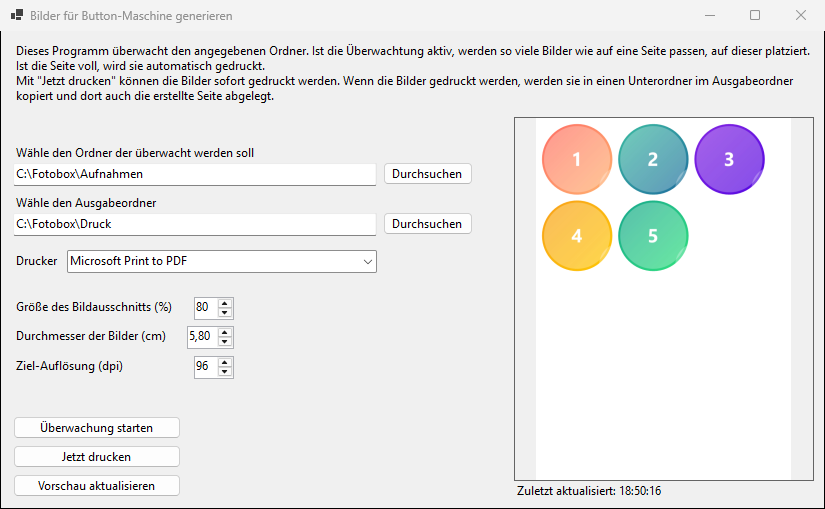
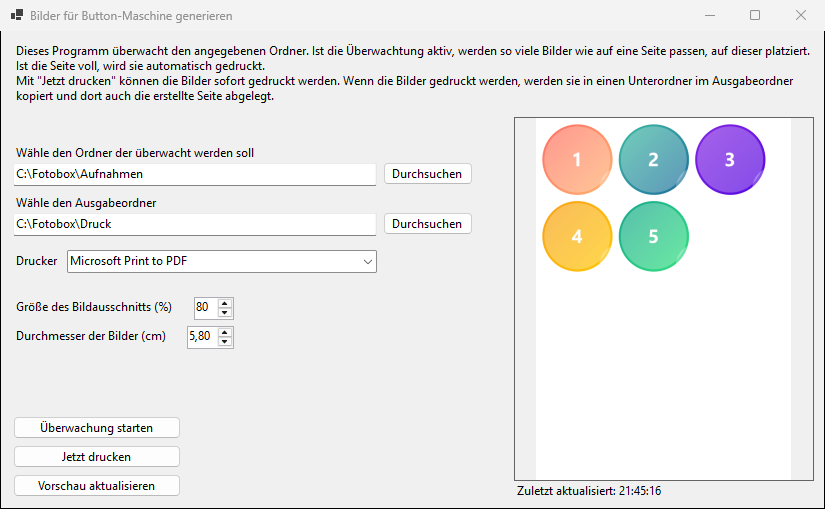
Druck mit festen 300 dpi und korrekter Größe
- Druckseite wird mit 300 dpi erzeugt (vorher 96 dpi), die Vorschau
  bleibt aus Geschwindigkeitsgründen bei 96 dpi
- Layout wird in cm berechnet und erst dann in Pixel umgerechnet
- Druck platziert das Bild in seiner physischen Größe; vorher wurden
  96-dpi-Pixel als 1/100 Zoll gedruckt, wodurch die Kreise etwa 4 %
  zu klein waren (5,56 statt 5,8 cm)
- Für den Druck hochwertige Skalierung (HighQualityBicubic)
- Wirkungsloses Eingabefeld „Ziel-Auflösung (dpi)“ entfernt

Claude-Session: https://claude.ai/code/session_01WXyDXVvNh6Jt7r7JhcrZzB

diff --git a/PrintImageForButtonMachine/ImageProcessor.cs b/PrintImageForButtonMachine/ImageProcessor.cs
@@ -13,12 +13,16 @@ namespace PrintImageForButtonMachine
     internal class ImageProcessor
     {
         private const double cmProInch = 2.54;
+        private const double SeitenBreiteCm = 21; // A4
+        private const double SeitenHoeheCm = 29.7;
+        private const double AbstandCm = 0.5;
+        private const int VorschauDpi = 96; // genügt für die Bildschirmvorschau
+        private const int DruckDpi = 300; // mehr bringt auch bei 600-dpi-Laserdruckern keinen sichtbaren Gewinn
         private TextBox _ueberwachungPfad;
         private TextBox _ausgabePfad;
         private double _faktor; // [0,1]
         private double _groesse; // cm
         private PictureBox _pictureBox;
-        private int _druckerAuflösung = 96; // dpi
         private Label _labelAktualisiert;
         private readonly ComboBox _comboBox;
         private string? _vorschauSignatur; // Stand der zuletzt erzeugten Vorschau
@@ -28,12 +32,6 @@ namespace PrintImageForButtonMachine
         public string AusgabePfad { get => _ausgabePfad.Text; set => _ausgabePfad.Text = value; }
         public double Faktor { get => _faktor * 100; set => _faktor = value / 100; }
         public double Groesse { get => _groesse; set => _groesse = value; }
-
-        public int DruckerAuflösung { get => _druckerAuflösung; set => _druckerAuflösung = value; }
-        public int BreiteInPixel { get => (int)(21 / cmProInch * _druckerAuflösung); }
-        public int HöheInPixel { get => (int)(29.7 / cmProInch * _druckerAuflösung); }
-        public int GroesseInPixel { get => (int)(_groesse / cmProInch * _druckerAuflösung); }
-        public int AbstandInPixel { get => (int)(0.5 / cmProInch * _druckerAuflösung); }
 
         public ImageProcessor(TextBox p_UeberwachungPfad, TextBox p_ausgabePfad, double p_Faktor, double p_Groesse, PictureBox p_PictureBox, Label labelAktualisiert, ComboBox comboBox)
         {
@@ -104,7 +102,7 @@ namespace PrintImageForButtonMachine
                 // Bild im Hintergrund erzeugen und speichern, damit die Oberfläche nicht blockiert
                 using Bitmap neuesBild = await Task.Run(() =>
                 {
-                    Bitmap bild = GeneriereBild(LeseBilder(ordnerPfad), out _);
+                    Bitmap bild = GeneriereBild(LeseBilder(ordnerPfad), DruckDpi, out _);
                     string printPath = Path.Combine(ordnerPfad, "print.jpg");
                     if (File.Exists(printPath))
                     {
@@ -134,7 +132,7 @@ namespace PrintImageForButtonMachine
                 if (erzwingen || signatur != _vorschauSignatur)
                 {
                     bool vollstaendig = false;
-                    Bitmap vorschaubild = await Task.Run(() => GeneriereBild(dateien, out vollstaendig));
+                    Bitmap vorschaubild = await Task.Run(() => GeneriereBild(dateien, VorschauDpi, out vollstaendig));
                     Image? altesBild = _pictureBox.Image;
                     _pictureBox.Image = vorschaubild;
                     altesBild?.Dispose();
@@ -151,8 +149,8 @@ namespace PrintImageForButtonMachine
 
         public int ErmittleAnzahlBilderProSeite()
         {
-            int anzahlSpalten = ErmittleAnzahlBilder(BreiteInPixel, GroesseInPixel);
-            int anzahlZeilen = ErmittleAnzahlBilder(HöheInPixel, GroesseInPixel);
+            int anzahlSpalten = ErmittleAnzahlBilder(SeitenBreiteCm);
+            int anzahlZeilen = ErmittleAnzahlBilder(SeitenHoeheCm);
             return anzahlSpalten * anzahlZeilen;
         }
 
@@ -164,7 +162,7 @@ namespace PrintImageForButtonMachine
         private string ErzeugeSignatur(FileInfo[] dateien)
         {
             var signatur = new StringBuilder();
-            signatur.Append(_faktor).Append('|').Append(_groesse).Append('|').Append(_druckerAuflösung);
+            signatur.Append(_faktor).Append('|').Append(_groesse);
             foreach (FileInfo datei in dateien)
             {
                 signatur.Append('|').Append(datei.Name).Append(':').Append(datei.Length).Append(':').Append(datei.LastWriteTimeUtc.Ticks);
@@ -173,17 +171,24 @@ namespace PrintImageForButtonMachine
         }
 
         /// <param name="vollstaendig">false, wenn mindestens ein Bild nicht geladen werden konnte.</param>
-        private Bitmap GeneriereBild(FileInfo[] dateien, out bool vollstaendig)
+        private Bitmap GeneriereBild(FileInfo[] dateien, int dpi, out bool vollstaendig)
         {
             vollstaendig = true;
-            int groesseInPixel = GroesseInPixel;
-            int abstandInPixel = AbstandInPixel;
-            Bitmap neuesBild = new Bitmap(BreiteInPixel, HöheInPixel);
-            int anzahlBilderProZeile = ErmittleAnzahlBilder(BreiteInPixel, groesseInPixel);
+            double groesseCm = _groesse;
+            int groesseInPixel = InPixel(groesseCm, dpi);
+            Bitmap neuesBild = new Bitmap(InPixel(SeitenBreiteCm, dpi), InPixel(SeitenHoeheCm, dpi));
+            neuesBild.SetResolution(dpi, dpi);
+            int anzahlBilderProZeile = ErmittleAnzahlBilder(SeitenBreiteCm);
             using (Graphics g = Graphics.FromImage(neuesBild)) {
                 // Weißer Hintergrund, da JPEG keine Transparenz kennt
                 g.Clear(Color.White);
                 g.SmoothingMode = SmoothingMode.AntiAlias;
+                // Für den Druck hochwertig skalieren, für die Vorschau genügt die schnellere Variante
+                if (dpi >= DruckDpi)
+                {
+                    g.InterpolationMode = InterpolationMode.HighQualityBicubic;
+                    g.PixelOffsetMode = PixelOffsetMode.HighQuality;
+                }
                 for (int i = 0; i < dateien.Length; i++)
                 {
                     using Image? image = LadeBild(dateien[i].FullName);
@@ -192,8 +197,9 @@ namespace PrintImageForButtonMachine
                         vollstaendig = false;
                         continue;
                     }
-                    int x = abstandInPixel + (i % anzahlBilderProZeile) * (groesseInPixel + abstandInPixel);
-                    int y = abstandInPixel + (i / anzahlBilderProZeile) * (groesseInPixel + abstandInPixel);
+                    // Position in cm berechnen und erst dann umrechnen, damit sich Rundungsfehler nicht aufsummieren
+                    int x = InPixel(AbstandCm + (i % anzahlBilderProZeile) * (groesseCm + AbstandCm), dpi);
+                    int y = InPixel(AbstandCm + (i / anzahlBilderProZeile) * (groesseCm + AbstandCm), dpi);
                     ZeichneKreisausschnitt(g, image, new Rectangle(x, y, groesseInPixel, groesseInPixel));
                 }
             };
@@ -229,8 +235,13 @@ namespace PrintImageForButtonMachine
                 printDocument.PrintPage += (sender, args) =>
                 {
                     if (args.Graphics == null) return;
+                    // Beim Drucker entspricht GraphicsUnit.Display 1/100 Zoll; das Bild wird in seiner physischen Größe platziert
+                    args.Graphics.PageUnit = GraphicsUnit.Display;
                     args.Graphics.PageScale = 1;
-                    args.Graphics.DrawImage(bild, -args.PageSettings.HardMarginX, -args.PageSettings.HardMarginY, bild.Width, bild.Height);
+                    args.Graphics.InterpolationMode = InterpolationMode.HighQualityBicubic;
+                    float breite = bild.Width / bild.HorizontalResolution * 100f;
+                    float hoehe = bild.Height / bild.VerticalResolution * 100f;
+                    args.Graphics.DrawImage(bild, -args.PageSettings.HardMarginX, -args.PageSettings.HardMarginY, breite, hoehe);
                 };
                 printDocument.Print();
             }
@@ -257,8 +268,11 @@ namespace PrintImageForButtonMachine
 
             Rectangle bildausschnitt = new Rectangle((p_Bild.Width - kantenlaenge) / 2, (p_Bild.Height - kantenlaenge) / 2, kantenlaenge, kantenlaenge);
             using Bitmap skaliert = new Bitmap(zielRechteck.Width, zielRechteck.Height);
+            skaliert.SetResolution(ziel.DpiX, ziel.DpiY);
             using (Graphics g = Graphics.FromImage(skaliert))
             {
+                g.InterpolationMode = ziel.InterpolationMode;
+                g.PixelOffsetMode = ziel.PixelOffsetMode;
                 g.DrawImage(p_Bild, new Rectangle(0, 0, zielRechteck.Width, zielRechteck.Height), bildausschnitt, GraphicsUnit.Pixel);
             }
 
@@ -267,10 +281,14 @@ namespace PrintImageForButtonMachine
             ziel.FillEllipse(brush, zielRechteck);
         }
 
-        private int ErmittleAnzahlBilder(int p_verfügbareLänge, int p_LängeProBild)
+        private int ErmittleAnzahlBilder(double p_verfügbareLängeCm)
         {
+            return (int)((p_verfügbareLängeCm - AbstandCm) / (AbstandCm + _groesse));
+        }
 
-            return (p_verfügbareLänge - AbstandInPixel) / (AbstandInPixel + p_LängeProBild);
+        private static int InPixel(double cm, int dpi)
+        {
+            return (int)Math.Round(cm / cmProInch * dpi);
         }
     }
 }

diff --git a/PrintImageForButtonMachine/Form1.Designer.cs b/PrintImageForButtonMachine/Form1.Designer.cs
@@ -45,8 +45,6 @@
             label4 = new Label();
             label_aktivIcon = new Label();
             label_aktivText = new Label();
-            num_Auflösung = new NumericUpDown();
-            label5 = new Label();
             pictureBox1 = new PictureBox();
             button1 = new Button();
             label_Uhrzeit = new Label();
@@ -54,7 +52,6 @@
             label6 = new Label();
             ((System.ComponentModel.ISupportInitialize)num_faktor).BeginInit();
             ((System.ComponentModel.ISupportInitialize)num_groesse).BeginInit();
-            ((System.ComponentModel.ISupportInitialize)num_Auflösung).BeginInit();
             ((System.ComponentModel.ISupportInitialize)pictureBox1).BeginInit();
             SuspendLayout();
             // 
@@ -219,26 +216,6 @@
             label_aktivText.Visible = false;
             label_aktivText.Click += label7_Click;
             // 
-            // num_Auflösung
-            // 
-            num_Auflösung.Location = new Point(221, 433);
-            num_Auflösung.Margin = new Padding(3, 4, 3, 4);
-            num_Auflösung.Maximum = new decimal(new int[] { 300, 0, 0, 0 });
-            num_Auflösung.Name = "num_Auflösung";
-            num_Auflösung.Size = new Size(46, 27);
-            num_Auflösung.TabIndex = 19;
-            num_Auflösung.Value = new decimal(new int[] { 96, 0, 0, 0 });
-            // 
-            // label5
-            // 
-            label5.AutoSize = true;
-            label5.Location = new Point(14, 436);
-            label5.Name = "label5";
-            label5.Size = new Size(143, 20);
-            label5.TabIndex = 18;
-            label5.Text = "Ziel-Auflösung (dpi)";
-            label5.Click += label5_Click_1;
-            // 
             // pictureBox1
             // 
             pictureBox1.BorderStyle = BorderStyle.FixedSingle;
@@ -300,8 +277,6 @@
             Controls.Add(label_Uhrzeit);
             Controls.Add(button1);
             Controls.Add(pictureBox1);
-            Controls.Add(num_Auflösung);
-            Controls.Add(label5);
             Controls.Add(label_aktivText);
             Controls.Add(label_aktivIcon);
             Controls.Add(num_groesse);
@@ -325,7 +300,6 @@
             Load += Form1_Load;
             ((System.ComponentModel.ISupportInitialize)num_faktor).EndInit();
             ((System.ComponentModel.ISupportInitialize)num_groesse).EndInit();
-            ((System.ComponentModel.ISupportInitialize)num_Auflösung).EndInit();
             ((System.ComponentModel.ISupportInitialize)pictureBox1).EndInit();
             ResumeLayout(false);
             PerformLayout();
@@ -349,8 +323,6 @@
         private Label label4;
         private Label label_aktivIcon;
         private Label label_aktivText;
-        private NumericUpDown num_Auflösung;
-        private Label label5;
         private PictureBox pictureBox1;
         private Button button1;
         private Label label_Uhrzeit;

diff --git a/PrintImageForButtonMachine/Form1.cs b/PrintImageForButtonMachine/Form1.cs
@@ -65,7 +65,6 @@ namespace WinFormsApp1
             btn_ausgabe.Enabled = wert;
             num_faktor.Enabled = wert;
             num_groesse.Enabled = wert;
-            num_Auflösung.Enabled = wert;
             label_aktivIcon.Visible = !wert;
             label_aktivText.Visible = !wert;
             btn_startStop.Text = wert ? "Überwachung starten" : "Überwachung stoppen";
@@ -186,11 +185,6 @@ namespace WinFormsApp1
         }
 
         private void label6_Click_1(object sender, EventArgs e)
-        {
-
-        }
-
-        private void label5_Click_1(object sender, EventArgs e)
         {
 
         }

diff --git a/README.md b/README.md
@@ -10,6 +10,7 @@ Windows-Programm, das Fotos für eine Buttonmaschine druckfertig aufbereitet. Es
 - **Live-Vorschau** der aktuellen Seite, wird nur bei Änderungen neu berechnet
 - **Automatischer Druck**, sobald so viele Bilder vorhanden sind, wie auf eine Seite passen
 - **Manueller Druck** über „Jetzt drucken“, auch wenn die Seite noch nicht voll ist
+- **Druck in Originalgröße mit 300 dpi**: Die Kreise haben auf dem Papier exakt den eingestellten Durchmesser
 - **Archivierung:** Vor dem Druck werden die Fotos in einen Unterordner mit Zeitstempel im Ausgabeordner verschoben; die gedruckte Seite wird dort als `print.jpg` abgelegt
 
 ## Einstellungen
